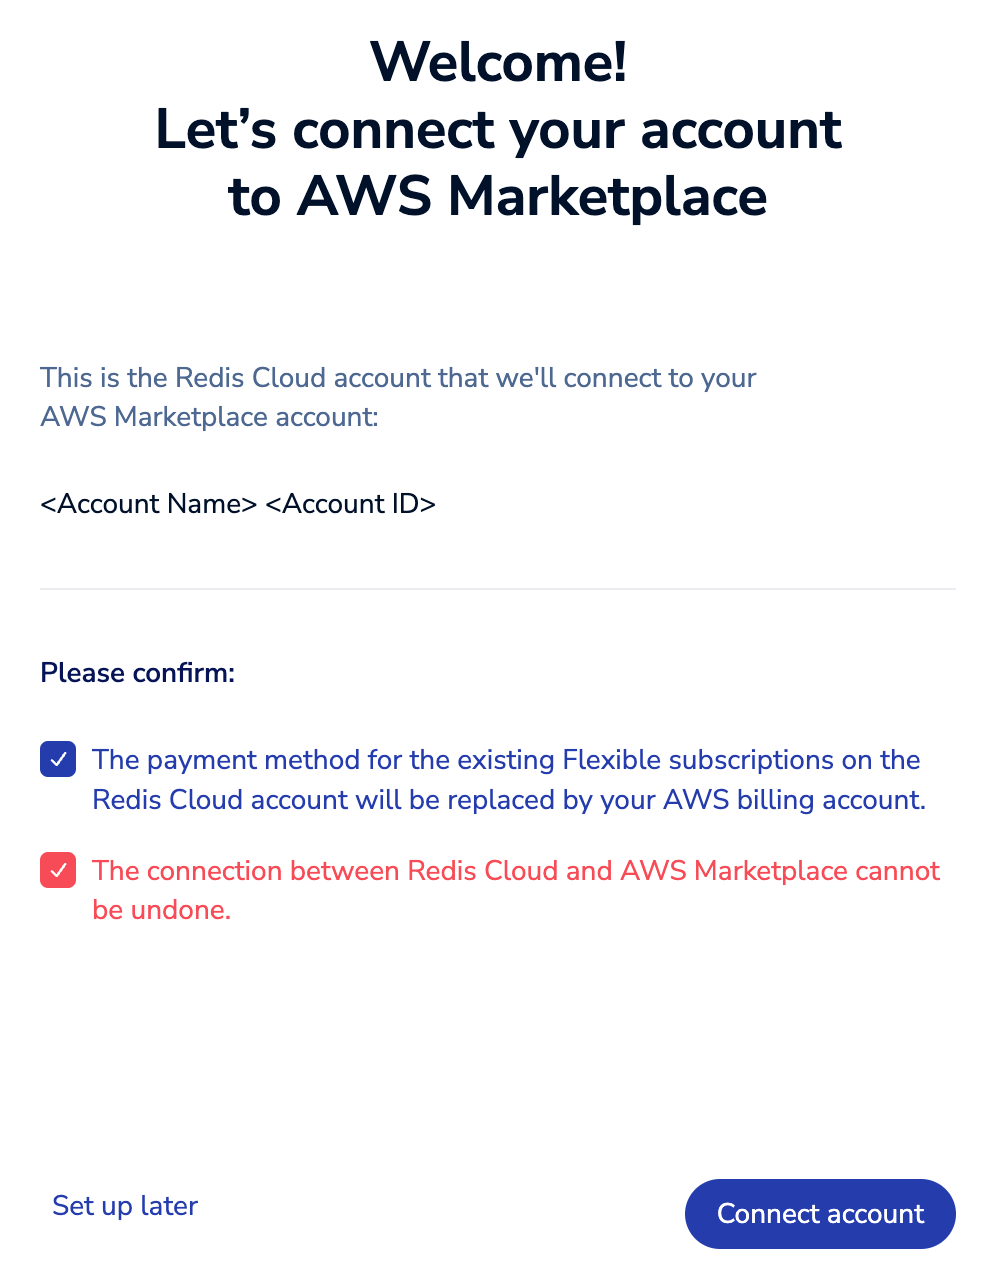
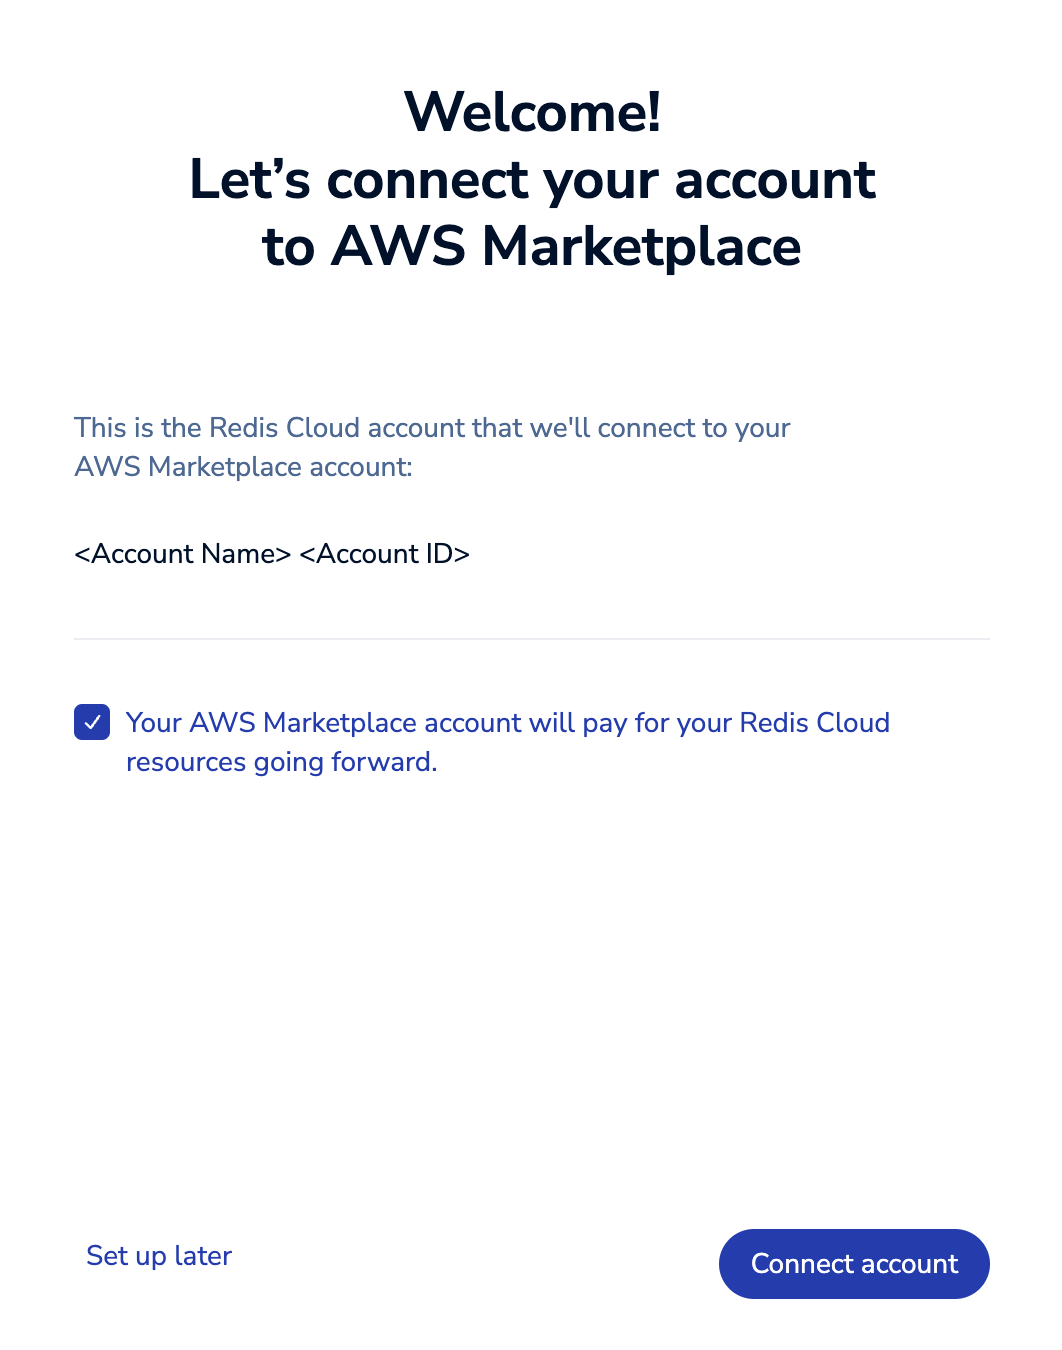
Change screenshots

diff --git a/content/rc/cloud-integrations/aws-marketplace/_index.md b/content/rc/cloud-integrations/aws-marketplace/_index.md
@@ -25,7 +25,7 @@ Here's how to create a new Flexible subscription as part of your AWS Marketplace
 
 1.  Sign in to the [Redis Cloud console](https://app.redislabs.com). If you do not yet have an account, you will need to create one. You must have the **Account Owner** role.
 
-1.  Select the Redis account to be mapped to your AWS Marketplace account and confirm that your payment method will change and that the connection cannot be undone.
+1.  Select the Redis account to be mapped to your AWS Marketplace account and confirm that your Marketplace account will pay for your Redis Cloud resources going forward.
 
     {{<image filename="images/rc/aws-marketplace-map-account-dialog.png" alt="Use the AWS Marketplace dialog to map your Redis Cloud account to your AWS Marketplace account." width="80%">}}{{< /image >}}
 

diff --git a/content/rc/cloud-integrations/gcp-marketplace/_index.md b/content/rc/cloud-integrations/gcp-marketplace/_index.md
@@ -36,7 +36,7 @@ Here's how to create a new Flexible subscription as part of your Google Cloud Ma
 
 1. Create a Redis Cloud account or sign in to an existing account. You must have the **Account Owner** role.
 
-1.  Select the Redis account to be mapped to your GCP Marketplace account and confirm that your payment method will change and that the connection cannot be undone.
+1.  Select the Redis account to be mapped to your GCP Marketplace account and confirm that your Marketplace account will pay for your Redis Cloud resources going forward.
 
     {{<image filename="images/rc/gcp-marketplace-map-account-dialog.png" alt="Use the GCP Marketplace dialog to map your Redis Cloud account to your Google Cloud Marketplace account." width="75%">}}{{< /image >}}
 
